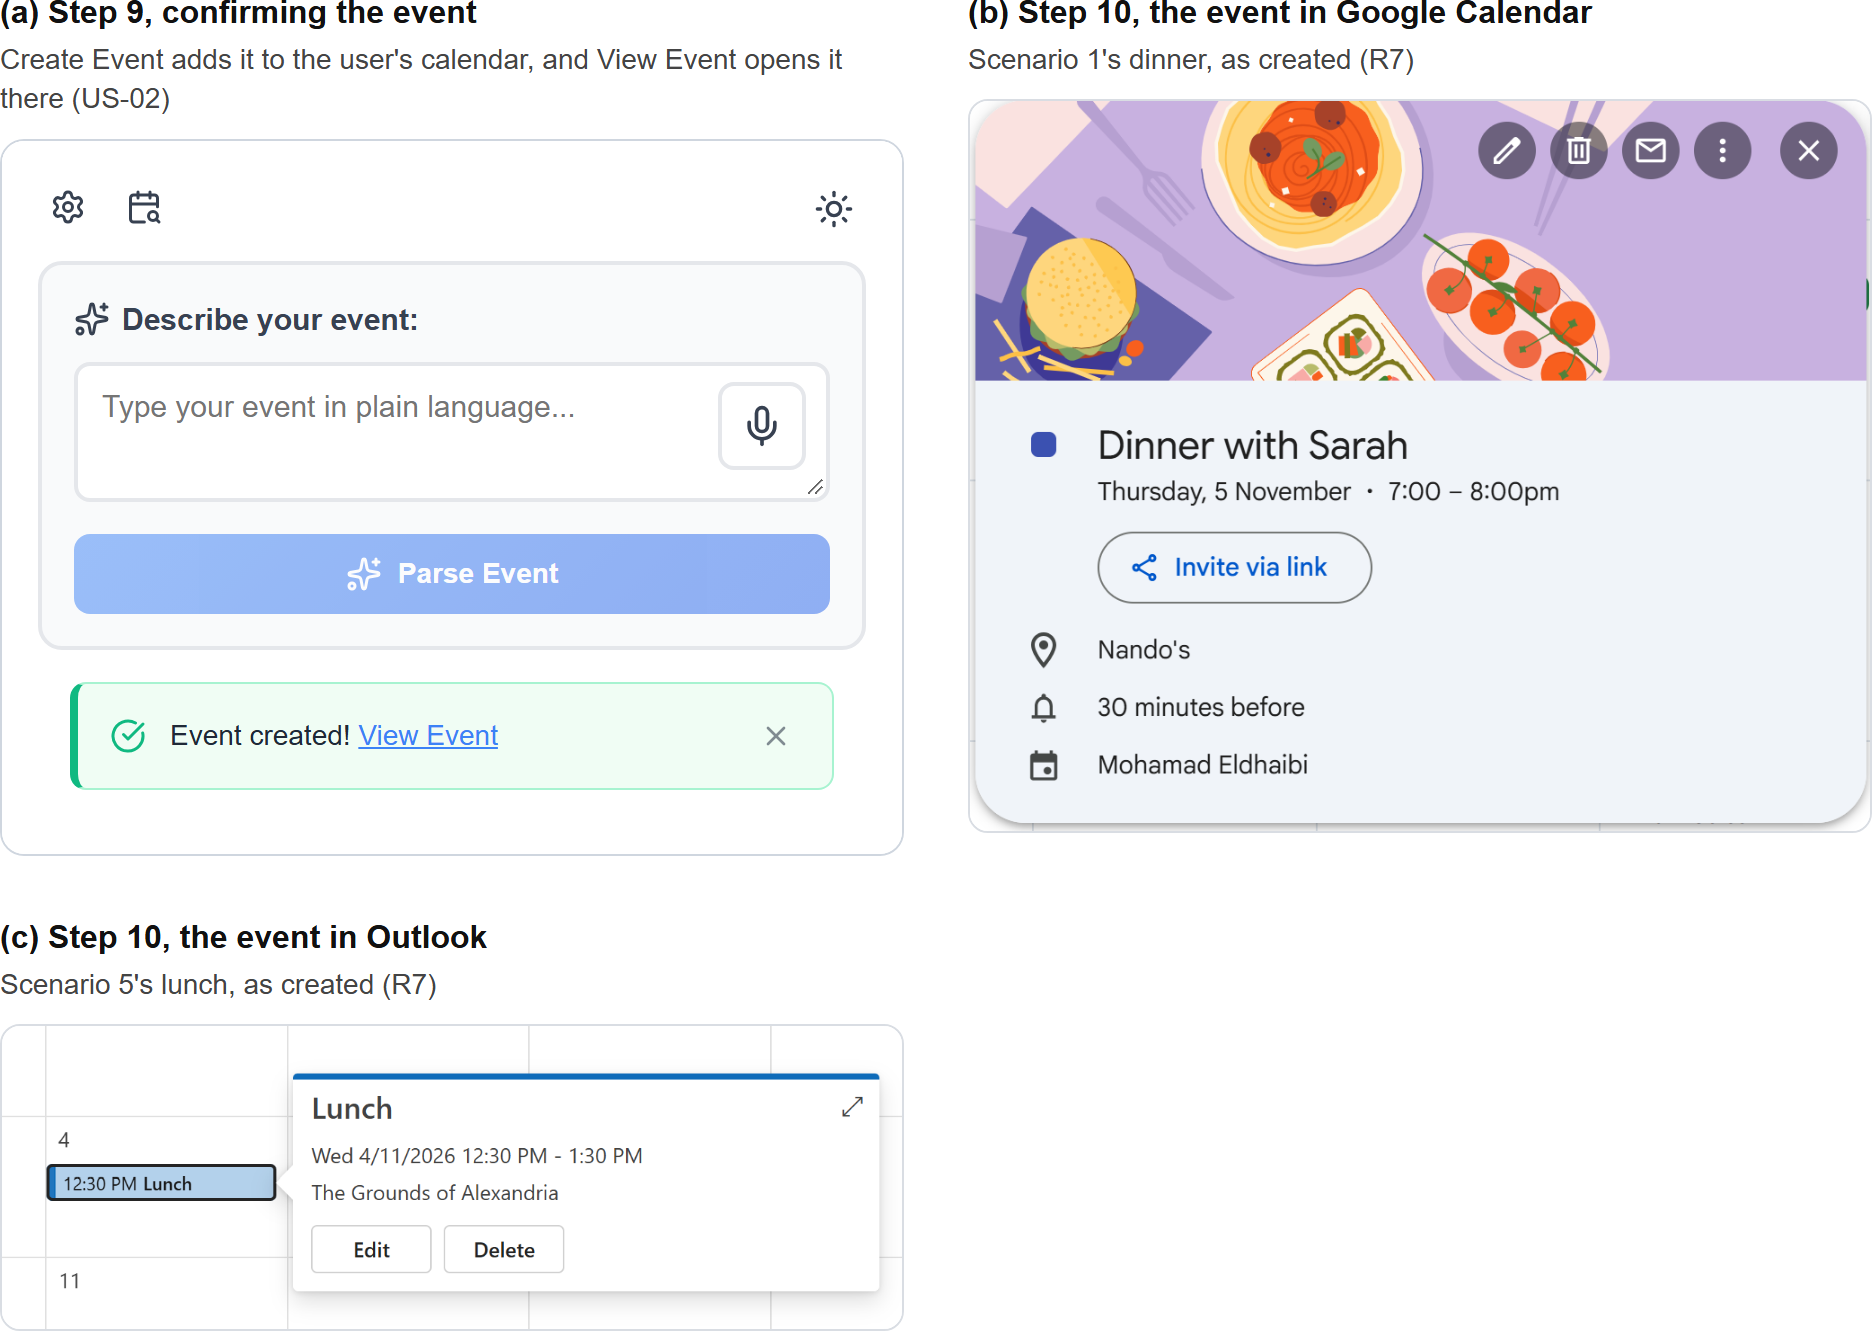
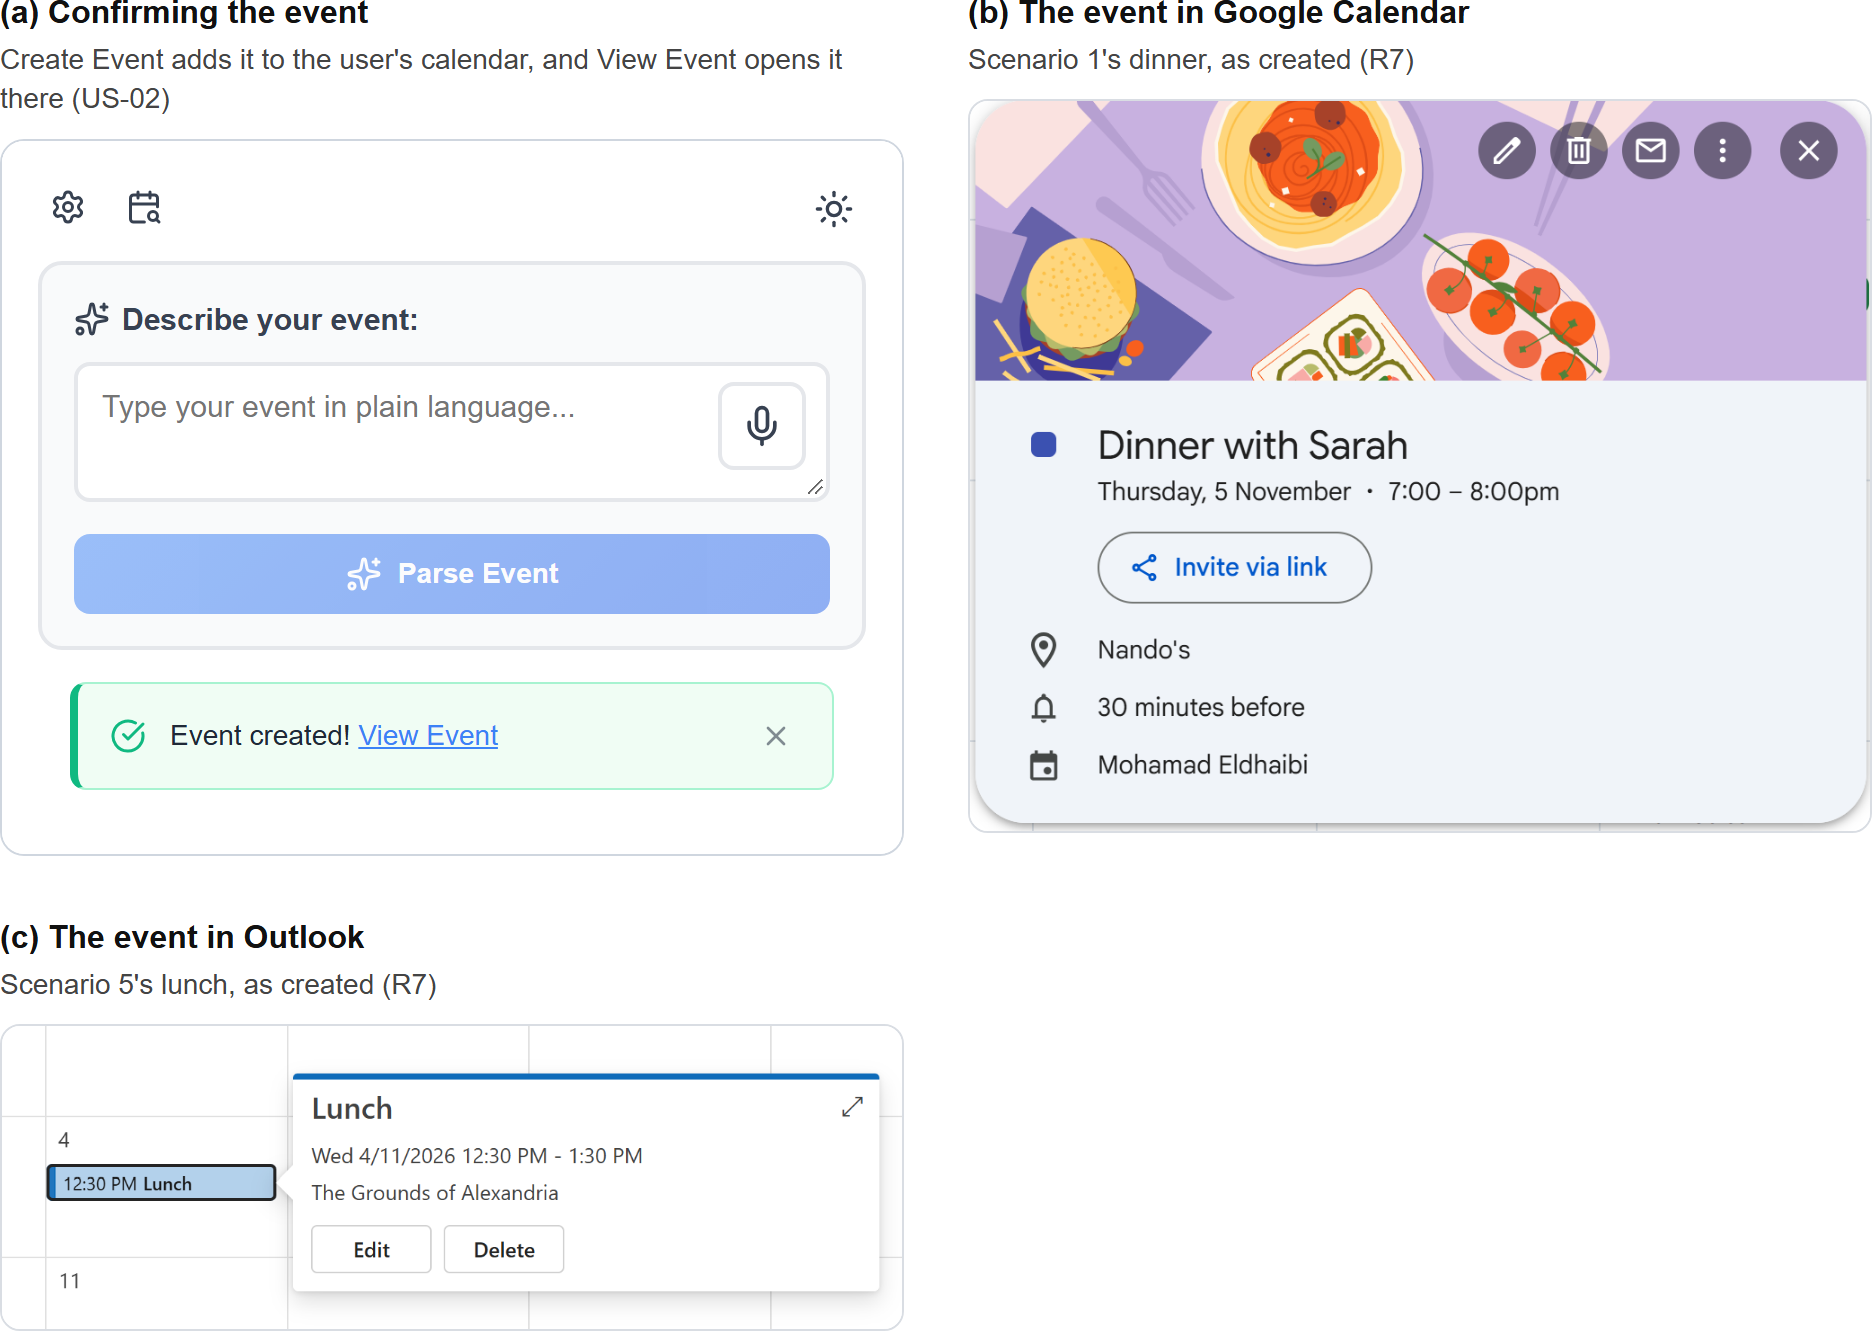
Drop step numbers from the report's figure panels
Figure 6 has no numbered steps, so "steps 1, 5 and 6" in the panel headings
pointed at nothing. The panels keep their scenario titles, and Figure 9's
read "Confirming the event" and "The event in Google Calendar / Outlook".

Changed region(s): [[0.5267, 0.0, 0.8675, 0.0308], [0.031, 0.6777, 0.2479, 0.7393], [0.031, 0.0, 0.2479, 0.0308]]

diff --git a/chrome-extension/store-screenshots/main.jsx b/chrome-extension/store-screenshots/main.jsx
@@ -417,8 +417,8 @@ SCREENS.marquee = () => (
 
 // Capstone report: Figure 7 (core scenarios) and Figure 8 (extended
 // scenarios), each a grid of panels on white, cropped by capture.py. Each
-// panel is one user scenario: a title with the Figure 6 steps it shows, then
-// what the user does and gets, with the user stories from Table 13 it satisfies.
+// panel is one user scenario: a title, then what the user does and gets, with
+// the user stories from Table 13 it satisfies.
 const Panel = ({ label, detail, wide = false, hero = false, children }) => (
   <div className={`report-panel ${wide ? "report-wide" : ""} ${hero ? "" : "no-hero"}`}>
     <div className="report-label">
@@ -450,19 +450,19 @@ const NO_EVENT_MESSAGE =
 SCREENS["report-fig7"] = () => (
   <ReportFigure>
     <Panel
-      label="(a) Scenario 1, a clear request, steps 1 and 5"
+      label="(a) Scenario 1, a clear request"
       detail="“Dinner with Sarah next Thursday at 7pm to 8pm at Nando's” gives a preview ready to create (US-01, US-02)"
     >
       {VISUALS.input()}
     </Panel>
     <Panel
-      label="(b) Scenario 2, missing details, steps 1, 5 and 6"
+      label="(b) Scenario 2, missing details"
       detail="“Coffee with Alex on Friday” gives a guessed time highlighted and the end time assumed (US-03, US-04)"
     >
       {VISUALS.review()}
     </Panel>
     <Panel
-      label="(c) Scenario 3, correcting before creating, step 8"
+      label="(c) Scenario 3, correcting before creating"
       detail="The user fixes the details in the edit dialog (US-05)"
     >
       <EditEventModal
@@ -491,7 +491,7 @@ SCREENS["report-fig7"] = () => (
       />
     </Panel>
     <Panel
-      label="(d) Scenario 4, no event in the text, steps 1 and 4"
+      label="(d) Scenario 4, no event in the text"
       detail="“hmm, not sure yet” gives a message, and nothing is added (US-11)"
     >
       <Popup>
@@ -507,20 +507,20 @@ SCREENS["report-fig7"] = () => (
 SCREENS["report-fig8"] = () => (
   <ReportFigure>
     <Panel
-      label="(a) Scenario 5, adding from an email, steps 2 and 4"
+      label="(a) Scenario 5, adding from an email"
       detail="Select the text, right-click, and the badge shows when it is ready (US-10)"
       wide
     >
       {VISUALS.rightclick()}
     </Panel>
     <Panel
-      label="(b) Scenario 6, a clash with an existing event, steps 5 and 7"
+      label="(b) Scenario 6, a clash with an existing event"
       detail="The warning offers the nearest free times (US-12)"
     >
       {VISUALS.clash()}
     </Panel>
     <Panel
-      label="(c) Scenario 7, finding a time first, steps 3 and 8"
+      label="(c) Scenario 7, finding a time first"
       detail="Pick an open slot, and the editor opens with that time filled in (US-13)"
     >
       {VISUALS.slots()}
@@ -537,8 +537,8 @@ Object.keys(VISUALS).forEach((key) => {
   };
 });
 
-// Figure 9: steps 9 and 10, the end of the flow: the extension's confirmation,
-// then the created events in each calendar.
+// Figure 9: the end of the flow: the extension's confirmation, then the created
+// events in each calendar.
 SCREENS["report-fig9"] = () => {
   const shots = [
     ["google", "Google Calendar", "Scenario 1's dinner"],
@@ -547,7 +547,7 @@ SCREENS["report-fig9"] = () => {
   return (
     <ReportFigure>
       <Panel
-        label="(a) Step 9, confirming the event"
+        label="(a) Confirming the event"
         detail="Create Event adds it to the user's calendar, and View Event opens it there (US-02)"
       >
         <Popup>
@@ -560,7 +560,7 @@ SCREENS["report-fig9"] = () => {
       {shots.map(([provider, name, scenario], index) => (
         <Panel
           key={provider}
-          label={`(${"bc"[index]}) Step 10, the event in ${name}`}
+          label={`(${"bc"[index]}) The event in ${name}`}
           detail={`${scenario}, as created (R7)`}
         >
           <img className="report-shot" src={calendarShot(provider)} alt="" />
